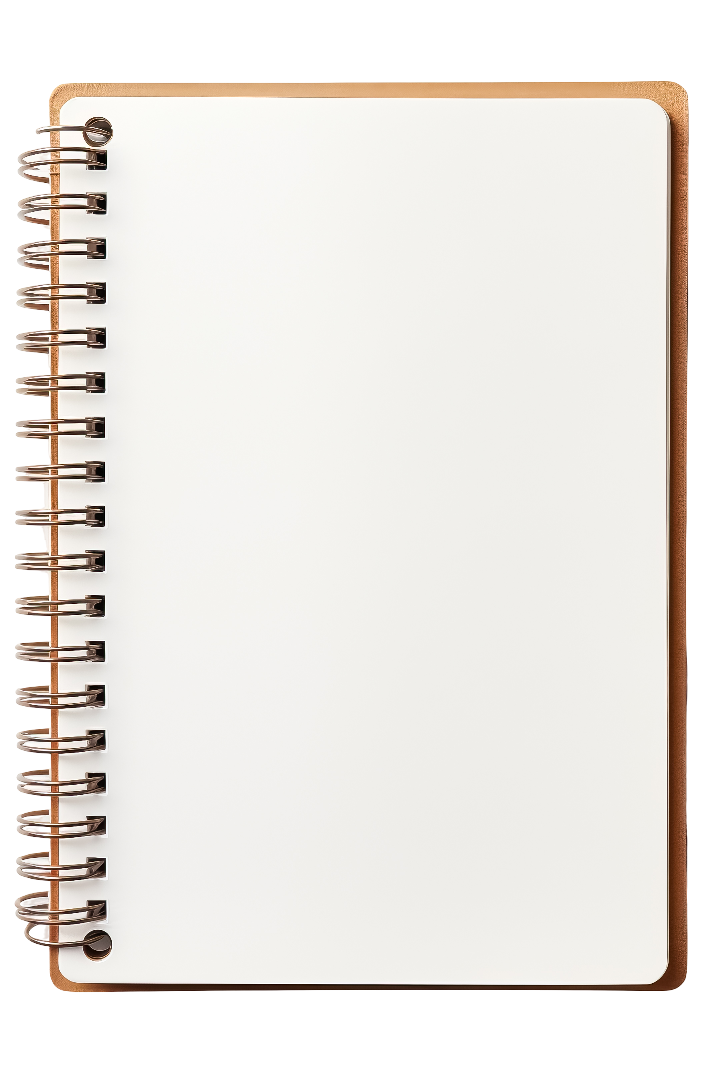
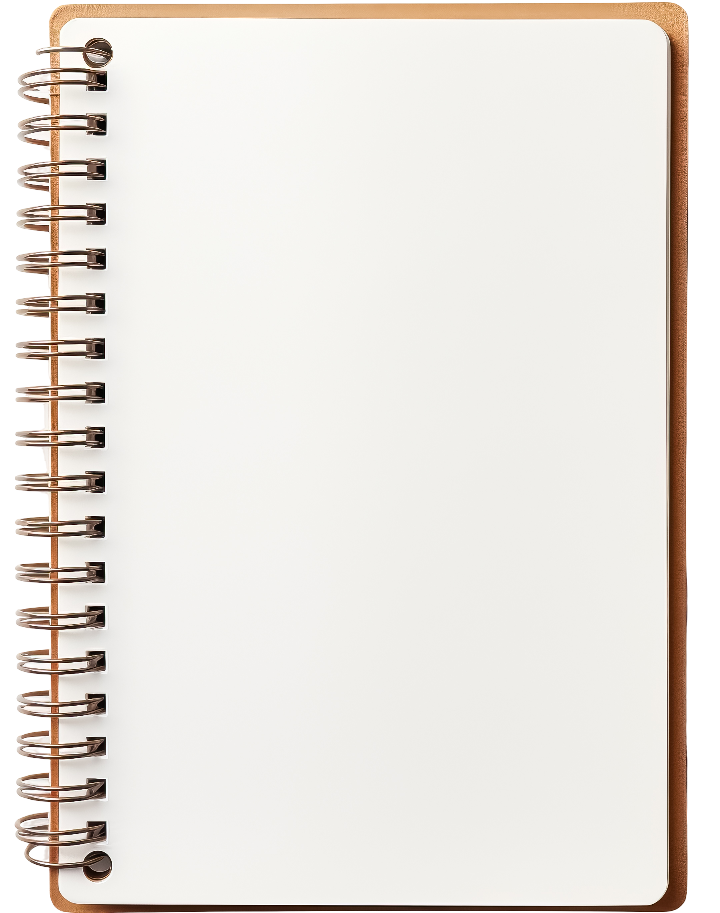
toc update

Changed region(s): [[0.0, 0.0, 0.9778, 1.0], [0.9472, 0.7667, 0.9778, 0.7974]]

diff --git a/assets/css/style.css b/assets/css/style.css
@@ -1063,7 +1063,23 @@ h1 {
   color: #333;
   margin: 2rem 0;
 }
+.frontpage {
+  height: 100vh;
+  margin: 40px 120px;
+  padding: 15px 40px;
+  transform: rotate(-0.6deg);
+  position: relative;
+  z-index: 3;
+}
 
+.frontpage.notebook-bg {
+  background-image: url("../images/notebook.png");
+  background-repeat: no-repeat;
+  background-position: center top; /* tweak X/Y to line up paper artwork */
+  background-size: cover; /* make background height fill the element */
+  min-height: 100vh; /* at least full viewport */
+  overflow: visible;
+}
 /* bonus clicks */
 .tv-frame {
   position: relative;
